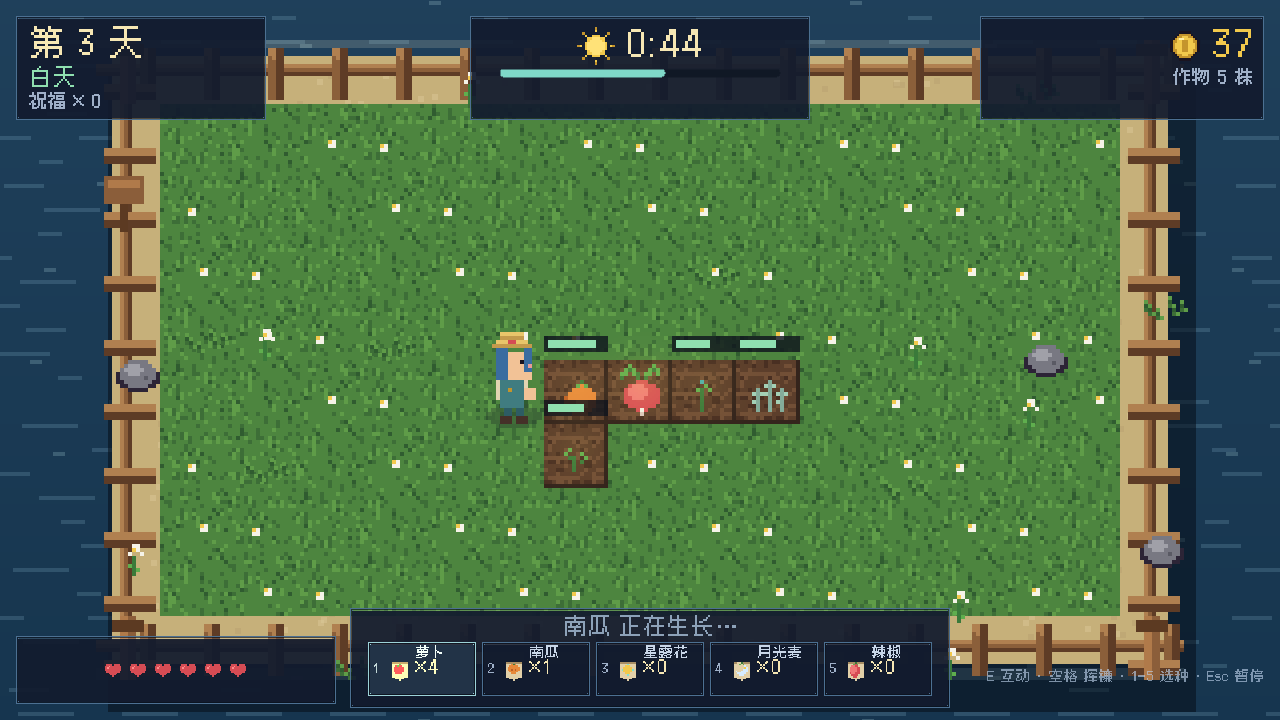
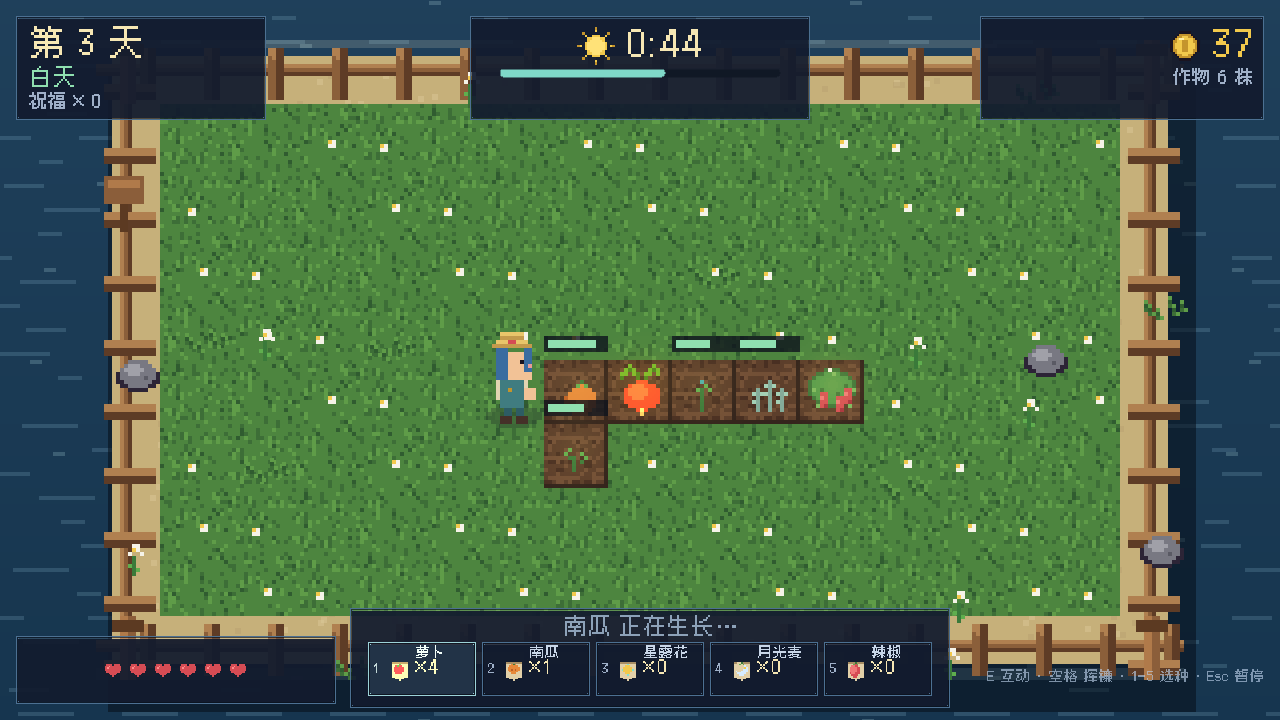
v1.3.0: updates 01-04 (chili, golden crops, mobile feel, farm QoL)

Changed region(s): [[0.625, 0.4889, 0.6875, 0.6111], [0.4688, 0.4889, 0.5312, 0.5806]]

diff --git a/README.md b/README.md
@@ -29,6 +29,7 @@
 | 南瓜 | 9 | 13s | 24 | 稳健 |
 | 星露花 | 20 | 20s | 54 | 最贵 |
 | 月光麦 | 16 | 9s（仅夜晚） | 44 | 白天打盹，夜里疯长 |
+| 辣椒 | 11 | 11s | 30 | 中价中速，补空档 |
 
 ## 操作
 
@@ -38,7 +39,7 @@
 | --- | --- |
 | `WASD` / 方向键 | 移动 |
 | `E` | 互动：松土 / 播种 / 浇水 / 收获 |
-| `1` `2` `3` `4` | 切换种子（也可直接点种子栏） |
+| `1` `2` `3` `4` `5` | 切换种子（也可直接点种子栏） |
 | `空格` / 鼠标左键 | 挥镰攻击（鼠标会朝指针方向挥） |
 | `Esc` | 暂停（内有音乐 / 音效 / 全屏开关） |
 | `M` | 快速开关音乐 |
@@ -57,8 +58,8 @@
 
 到 [Releases](https://github.com/ElectLive/whale-fall-farm/releases) 下载最新版：
 
-- Windows：`WhaleFallFarm-v1.2.0-win64.zip` — 解压双击 `WhaleFallFarm.exe`，绿色免安装，存档在 exe 旁边。
-- Android：`WhaleFallFarm-v1.2.0-android.apk` — Android 7.0+ / arm64，允许「安装未知来源应用」即可安装。APK 使用调试证书签名，适合直接安装试玩，不适合上架应用商店。
+- Windows：`WhaleFallFarm-v1.3.0-win64.zip` — 解压双击 `WhaleFallFarm.exe`，绿色免安装，存档在 exe 旁边。
+- Android：`WhaleFallFarm-v1.3.0-android.apk` — Android 7.0+ / arm64，允许「安装未知来源应用」即可安装。APK 使用调试证书签名，适合直接安装试玩，不适合上架应用商店。
 
 ## 从源码运行
 
@@ -93,7 +94,7 @@ Godot --headless --path . --export-release "Android" build/android/WhaleFallFarm
 ## 从源码重新生成素材
 
 ```bash
-python tools/gen_art.py     # 77 张像素图 + 图标（需要 Pillow）
+python tools/gen_art.py     # 82 张像素图 + 图标（需要 Pillow）
 python tools/gen_audio.py   # 4 首循环 BGM + 17 个音效 + 1 条雨声（需要 numpy）
 ```
 
@@ -103,7 +104,7 @@ python tools/gen_audio.py   # 4 首循环 BGM + 17 个音效 + 1 条雨声（需
 
 ```bash
 # 无头逻辑测试：种田、昼夜、商店、祝福、Boss、无尽、天气、移动端触控、存档
-Godot --headless --path . -- --selftest     # 50/50 PASS
+Godot --headless --path . -- --selftest     # 54/54 PASS
 
 # 实时冒烟测试：真的种一轮、传送到怪身边砍死几只、进入黎明
 Godot --headless --path . -- --smoke
@@ -159,6 +160,7 @@ docs/
 - **v1.0.0** — 无尽模式（通关后继续，每 3 天再战南瓜王）；记录/最佳成绩继续更新。
 - **v1.1.0** — 第 4 种作物「月光麦」；新怪物「沼泽蛙」；雨天天气；4 格种子栏。
 - **v1.2.0** — **Android 适配与 APK**：虚拟摇杆、触控攻击/互动/暂停、可点选种子栏、返回键暂停、手机存档路径；Windows 版同步。
+- **v1.3.0** — 第 5 种作物「辣椒」+ 5 格种子栏；金色作物变异（3 倍售价）；手机震动与切后台自动暂停；农事 QoL（种子用完自动切换、收获金额提示）。
 
 ## License
 

diff --git a/docs/design.md b/docs/design.md
@@ -47,7 +47,8 @@
 
 - 移动：WASD / 方向键。角色 4 方向 4 帧。
 - 互动键 `E` 是上下文键，按面对格子的状态执行：松土 → 播种 → 浇水 → 收获。
-- 种子 1/2/3/4 切换；种子数量有限，靠开局、收获随机返还、怪物掉落、商店补充。
+- 种子 1/2/3/4/5 切换；种子数量有限，靠开局、收获随机返还、怪物掉落、商店补充。
+- 种子栏在手机端可以直接点选；某一格用完后会自动切到下一个还有库存的种子。
 - 攻击：空格 / 鼠标左键，扇形判定，朝面向或鼠标方向。
 - 玩家不直接站在作物格上也能操作：判定格是「面前一格」（`facing * 14px`）。
 
@@ -61,9 +62,13 @@
 | 南瓜 | 9 | 13s | 24 | 30% |
 | 星露花 | 20 | 20s | 54 | 20% |
 | 月光麦 | 16 | 9s（仅夜晚） | 44 | 25% |
+| 辣椒 | 11 | 11s | 30 | 30% |
 
 - 浇一次水即可长到成熟；没浇水时生长暂停，并有水滴提示。
 - 月光麦只在夜晚推进生长，白天会暂停并显示「在等夜晚」；适合白天种下、夜里收。
+- 辣椒是中价中速作物，补足萝卜和南瓜之间的空档。
+- **金色变异**：每次播种有 5%（受幸运加成）概率变成金色作物，售价 ×3、返还种子概率 +15%，
+  生长全程带金色光效；收获提示会显示「金色 ×3」。
 - 收获后土地保留翻耕状态，可以直接补种。
 
 ### 怪物
@@ -124,6 +129,8 @@
   - 右上「Ⅱ」：暂停。
 - HUD 的 4 个种子格改为 Button，点选即切换，选中格加亮。
 - 手机端隐藏键盘提示；标题帮助和暂停说明切换为触控文案；暂停菜单隐藏全屏开关。
+- 手机震动：受击 60ms、击杀 18ms、收获 25ms、Boss 死亡 140ms；暂停菜单可关，设置持久化。
+- 切到后台（`NOTIFICATION_APPLICATION_FOCUS_OUT`）自动暂停。
 - 返回键：项目设置 `quit_on_go_back=false`，在 `_notification(NOTIFICATION_WM_GO_BACK_REQUEST)` 里切换暂停。
 - 存档：Android 写 `user://save_data.cfg`；Windows 便携版写 exe 旁边。
 - 导出：Godot 4.7 Android 模板 + JDK 17 + build-tools 34 + platform 35，release APK 用调试证书签名。

diff --git a/CHANGELOG.md b/CHANGELOG.md
@@ -3,6 +3,22 @@
 All notable changes to Whale Fall Farm are documented here.
 Format follows [Keep a Changelog](https://keepachangelog.com/); versions use semver.
 
+## v1.3.0 — 2026-10-29
+
+### Added
+
+- Fifth crop **辣椒 (chili)**: 11g seeds, 11s growth, 30g sale, joins the shop rotation.
+- Five-slot seed belt with clickable slots, `1`–`5` hotkeys and auto-switch when a stack runs out.
+- **Golden crops**: 5% (+luck) chance on planting, 3× sale value, +15% seed return, golden glow.
+- Mobile haptics on hurt / kill / harvest / boss death, with a persisted vibration toggle.
+- Auto-pause when the app loses focus on mobile.
+- Harvest prompt now shows the exact gold value (and golden tag).
+
+### Changed
+
+- HUD seed panel widened for five slots; hint text updated to `1-5`.
+- `current_action` no-seed and plant labels are clearer.
+
 ## v1.2.0 — 2026-10-29
 
 ### Added
@@ -90,7 +106,8 @@ Format follows [Keep a Changelog](https://keepachangelog.com/); versions use sem
 - Fully procedural pixel art (Pillow), chiptune music and SFX (numpy), Cubic 11 font.
 - Headless self-test (`--selftest`), real-time smoke test (`--smoke`), screenshot tooling.
 
-[Unreleased]: https://github.com/ElectLive/whale-fall-farm/compare/v1.2.0...main
+[Unreleased]: https://github.com/ElectLive/whale-fall-farm/compare/v1.3.0...main
+[v1.3.0]: https://github.com/ElectLive/whale-fall-farm/releases/tag/v1.3.0
 [v1.2.0]: https://github.com/ElectLive/whale-fall-farm/releases/tag/v1.2.0
 [v1.1.0]: https://github.com/ElectLive/whale-fall-farm/releases/tag/v1.1.0
 [v1.0.0]: https://github.com/ElectLive/whale-fall-farm/releases/tag/v1.0.0

diff --git a/docs/devlog.md b/docs/devlog.md
@@ -1,5 +1,20 @@
 # 开发日志
 
+## v1.3.0 — 2026-10-29（更新 01–04）
+
+### 内容
+
+- **更新 01**：手机震动反馈（受击/击杀/收获/Boss 死亡）、切后台自动暂停、暂停菜单震动开关（持久化）。
+- **更新 02**：种子用完自动切换下一格；收获提示显示金币数；无种子提示改为「按 1-5 切换」。
+- **更新 03**：第 5 种作物「辣椒」（11 金种子 / 11s / 30 金）；5 格种子栏 + `1-5` 键位 + 商店辣椒种子。
+- **更新 04**：金色作物变异（5% + 幸运，售价 ×3、返还种子 +15%、金色光效与收获提示）。
+
+### 验证记录
+
+- `--selftest`：**54/54 PASS**（新增种子自动切换、辣椒播种、金色作物倍率）。
+- 截图：5 格种子栏的 day / mobile。
+- 版本 1.3.0，Android versionCode 4。
+
 ## v1.2.0 — 2026-10-29
 
 ### 内容
